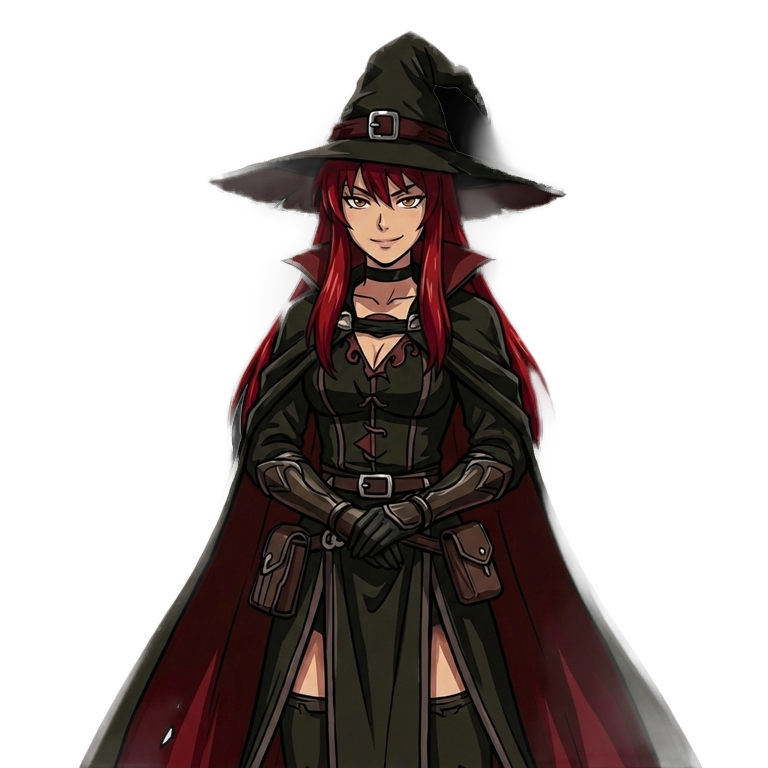
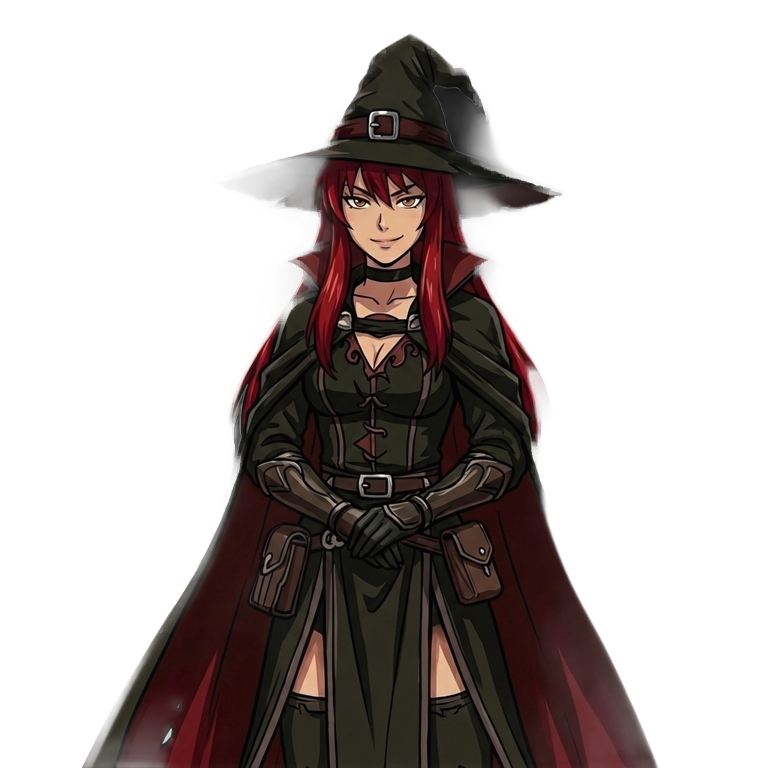
Assets: Adjusted Alpha Erosion to 4px (Balanced) to fix details and halos

diff --git a/scripts/remove_bg.py b/scripts/remove_bg.py
@@ -56,9 +56,9 @@ if __name__ == "__main__":
                         # Post-Process: Erode Alpha Channel to kill white halos
                         try:
                             r, g, b, a = out.split()
-                            # MinFilter(3) shrinks the mask by roughly 1px radius
-                            print(f"  - Eroding edges to remove white halo...")
-                            a = a.filter(ImageFilter.MinFilter(3))
+                            # MinFilter(4) shrinks the mask by 4px radius (Balanced)
+                            print(f"  - Eroding edges to remove white halo (Radius 4)...")
+                            a = a.filter(ImageFilter.MinFilter(4))
                             out = Image.merge("RGBA", (r, g, b, a))
                         except Exception as e:
                             print(f"  - Erosion failed, skipping: {e}")
